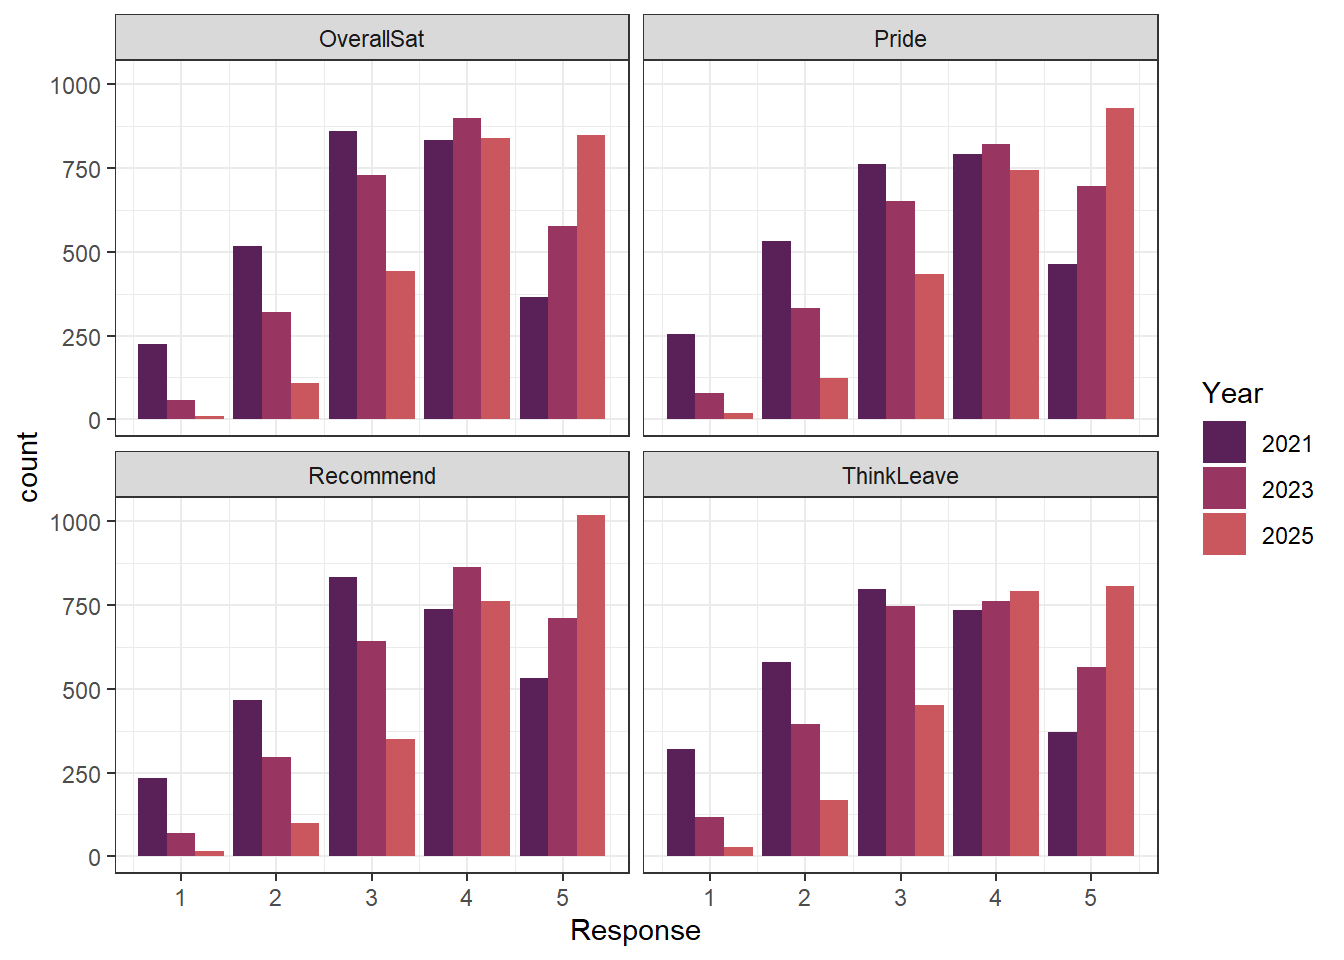
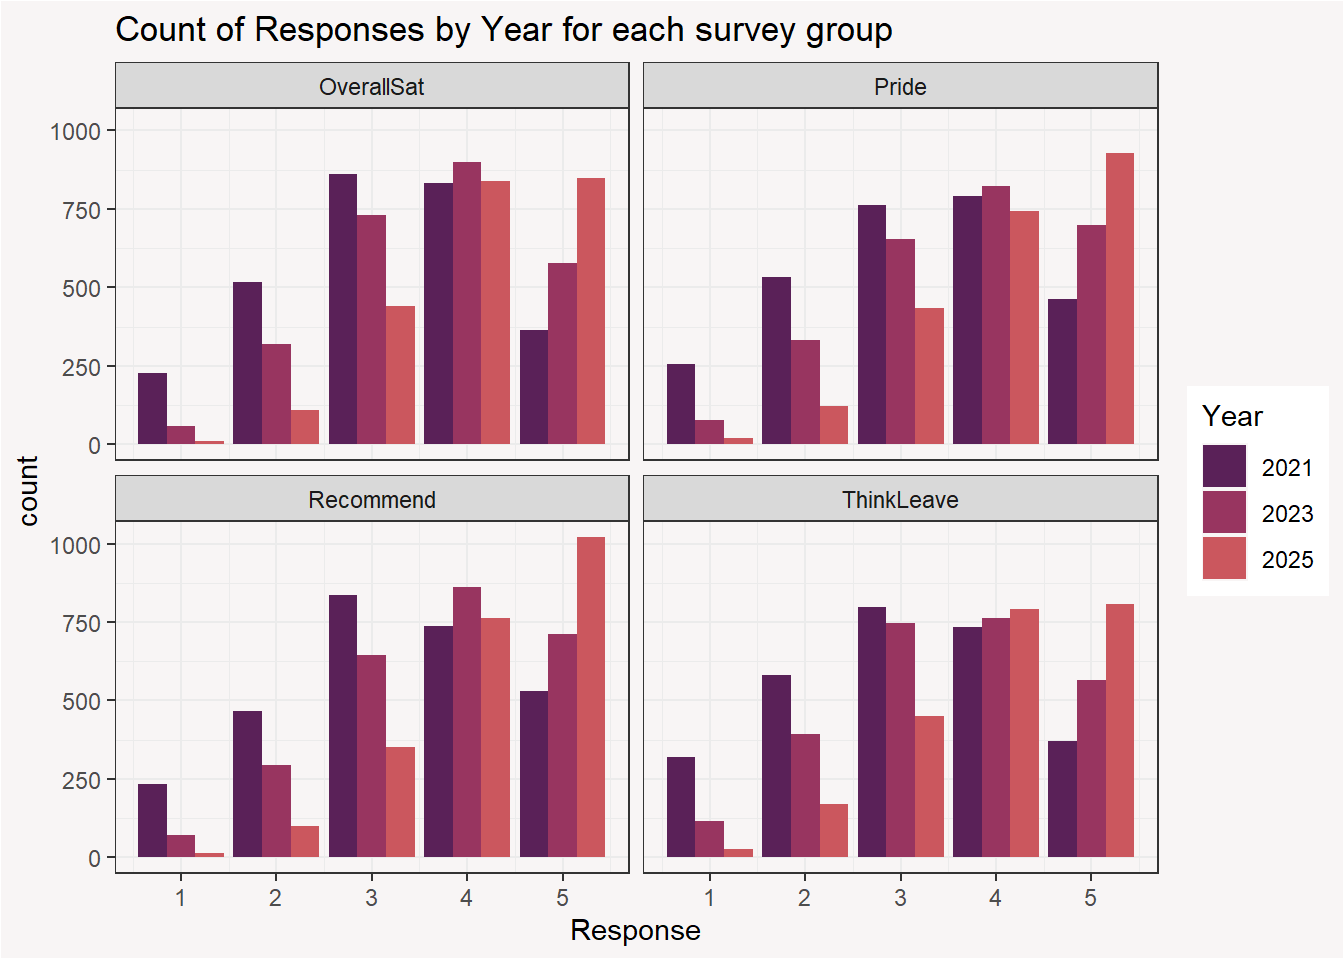
added visual to turnover

diff --git a/_site/index.html b/_site/index.html
@@ -176,7 +176,8 @@ ul.task-list li input[type="checkbox"] {
 <p>I am aiming to provide a clear and instructive analysis to Sr Leadership, mixing both written prose and visuals to provide an artifact for later viewing as well as a tool to center the conversation for a decision. I will start with the high level recommendation and then provide the steps for how we get there, knowing that depending on the leader’s availability, sometimes there is only time for the analysis and sometimes it’s desired to know how we got to the answer.</p>
 <p>I have intentionally designed this to be a code driven analysis in order to ensure that both the analysis is reproducible as well as that the code is reusable. It’s has been a common occurance for me where I have provided an analysis, we’ve made a decision and then a year later we want to evaluate the results. By this solution beig code based, we are able to quickly recreate the analysis and update with the necessary data without having to wonder if some data was omited due to outliers or if we intentionally just focused on a specific population.</p>
 <p>Because this presentation is meant for Sr Leadership I have intentionally removed most code, except for situations where it would be instructive or in more of of the detailed appendix. If you would like to review the code, please visit the code repository on Github by clicking on the icon on the top right and navigating to the “Source Code” link.</p>
-<p>Thanks for following along! -phil walker</p>
+<p>Thanks for following along!</p>
+<p>-phil walker</p>
 </section>
 <section id="analysis-overview" class="level1">
 <h1>Analysis Overview</h1>

diff --git a/_site/survey.html b/_site/survey.html
@@ -162,18 +162,6 @@ ul.task-list li input[type="checkbox"] {
 <p>This is where we will provide an analysis into the survey responses in order to determine if we see a correlation between survey responses and the ultimately the employee’s decision to leave the company or not</p>
 <p>This is a space where we’d be interested to tease out the difference’s between different demographics and whether or not their responses are indicitive of different behaviors.</p>
 <div class="cell">
-<div class="cell-output cell-output-stderr">
-<pre><code>── Attaching core tidyverse packages ──────────────────────── tidyverse 2.0.0 ──
-✔ dplyr     1.1.4     ✔ readr     2.1.5
-✔ forcats   1.0.1     ✔ stringr   1.5.2
-✔ ggplot2   4.0.0     ✔ tibble    3.3.0
-✔ lubridate 1.9.4     ✔ tidyr     1.3.1
-✔ purrr     1.1.0     
-── Conflicts ────────────────────────────────────────── tidyverse_conflicts() ──
-✖ dplyr::filter() masks stats::filter()
-✖ dplyr::lag()    masks stats::lag()
-ℹ Use the conflicted package (&lt;http://conflicted.r-lib.org/&gt;) to force all conflicts to become errors</code></pre>
-</div>
 <div class="cell-output-display">
 <div>
 <figure class="figure">

diff --git a/_site/turnover.html b/_site/turnover.html
@@ -160,6 +160,15 @@ ul.task-list li input[type="checkbox"] {
 
 
 <p>This is where we will provide a more detail view into the turnover both at Jackson as well as provide a larger view of how this organization is relative to the state wide view as well as the nationwide view.</p>
+<div class="cell">
+<div class="cell-output-display">
+<div>
+<figure class="figure">
+<p><img src="turnover_files/figure-html/unnamed-chunk-1-1.png" class="img-fluid figure-img" width="672"></p>
+</figure>
+</div>
+</div>
+</div>
 
 
 
